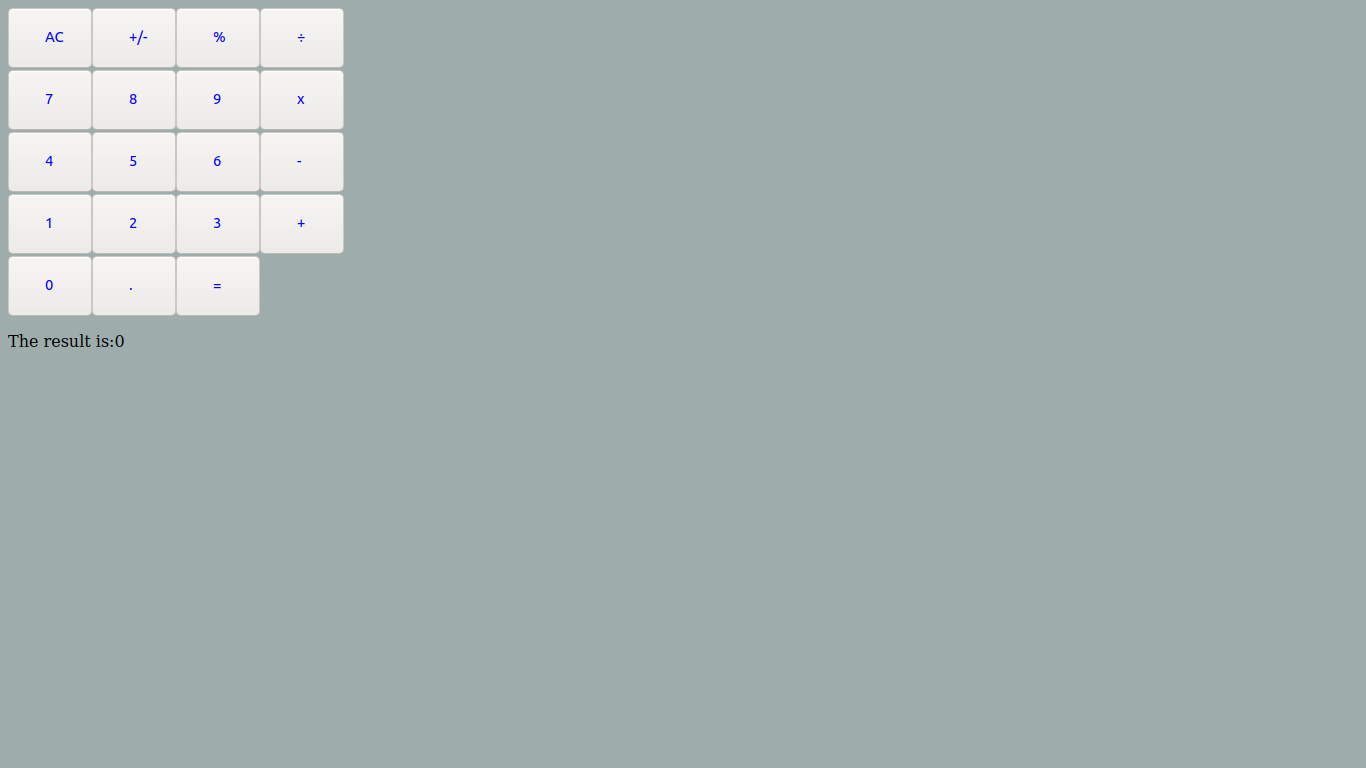
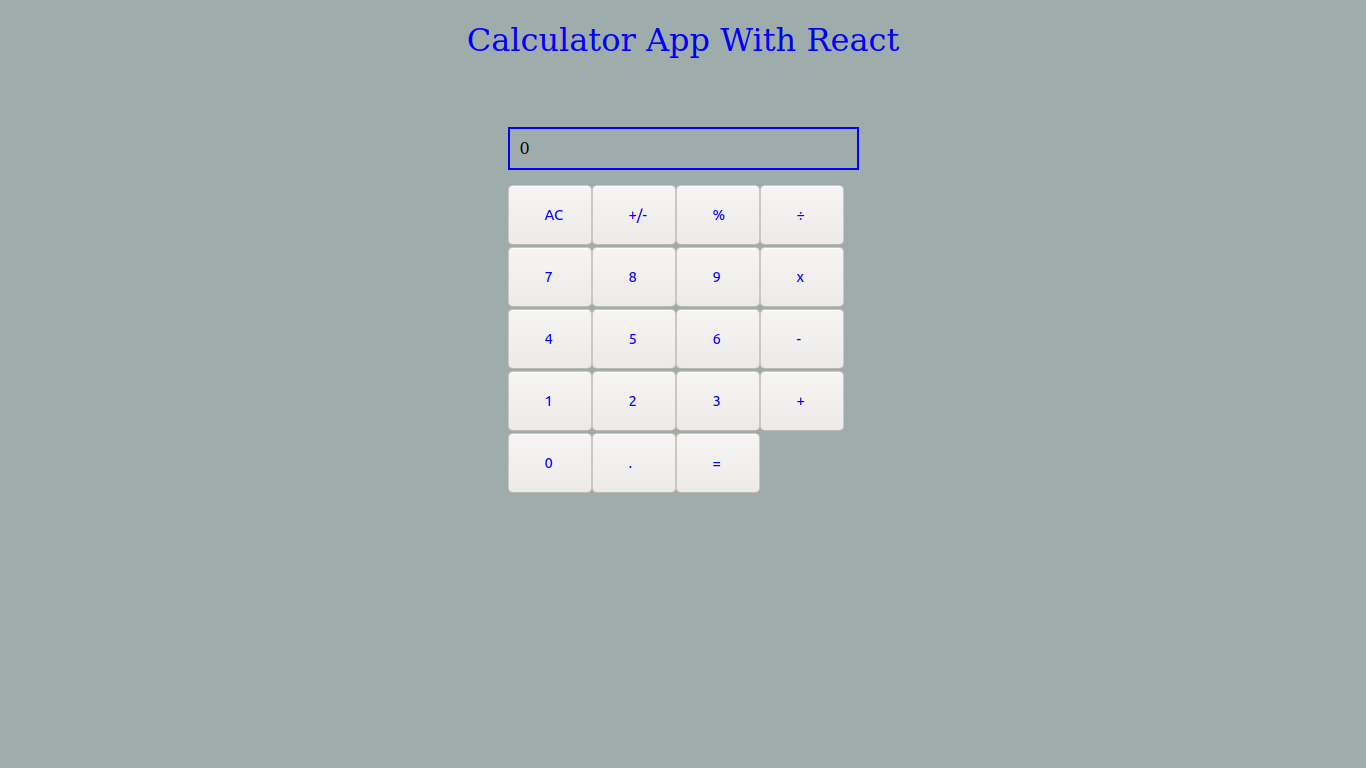
update readme file

Changed region(s): [[0.0, 0.0, 0.2767, 0.4688], [0.369, 0.1562, 0.6149, 0.6562], [0.3382, 0.0312, 0.6764, 0.0938]]

diff --git a/README.md b/README.md
@@ -2,11 +2,11 @@
 
 # Calculator
 
-> This is the fourth milestone of the project
+> This a calculator App built with react without hooks 
 
 ![screenshot](./app_screenshot.png)
 
-> This milestone came with the logic of the calculator
+> There are class based and function based component
 
 ## Built With
 
